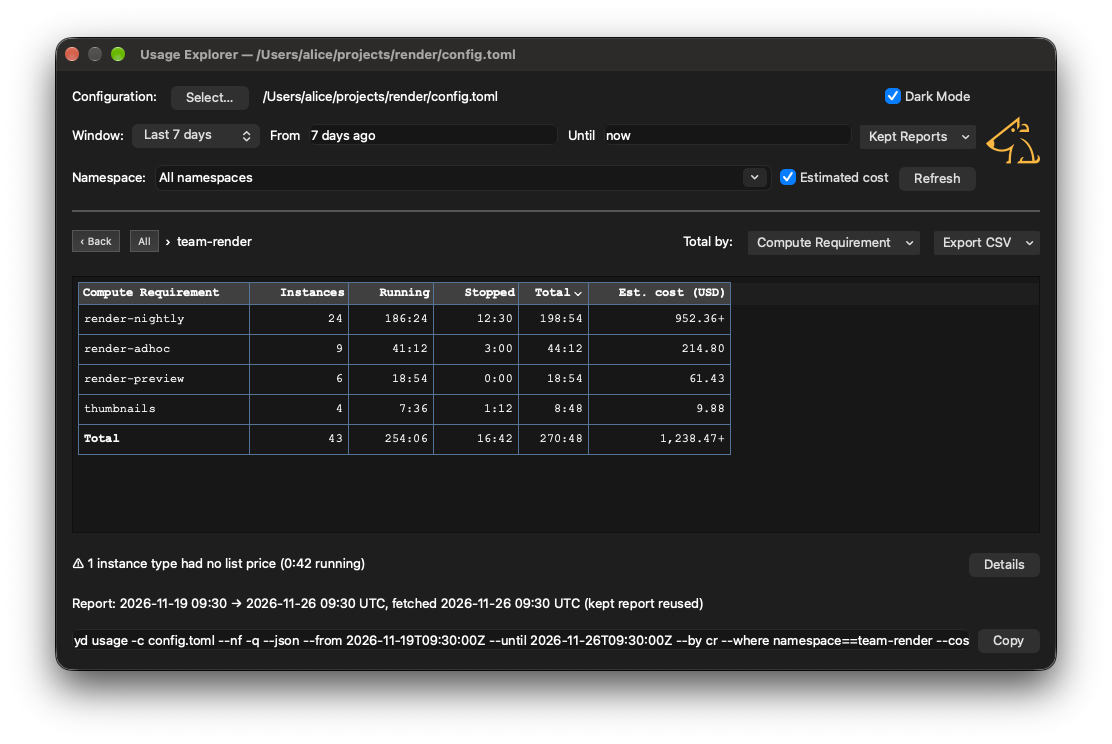
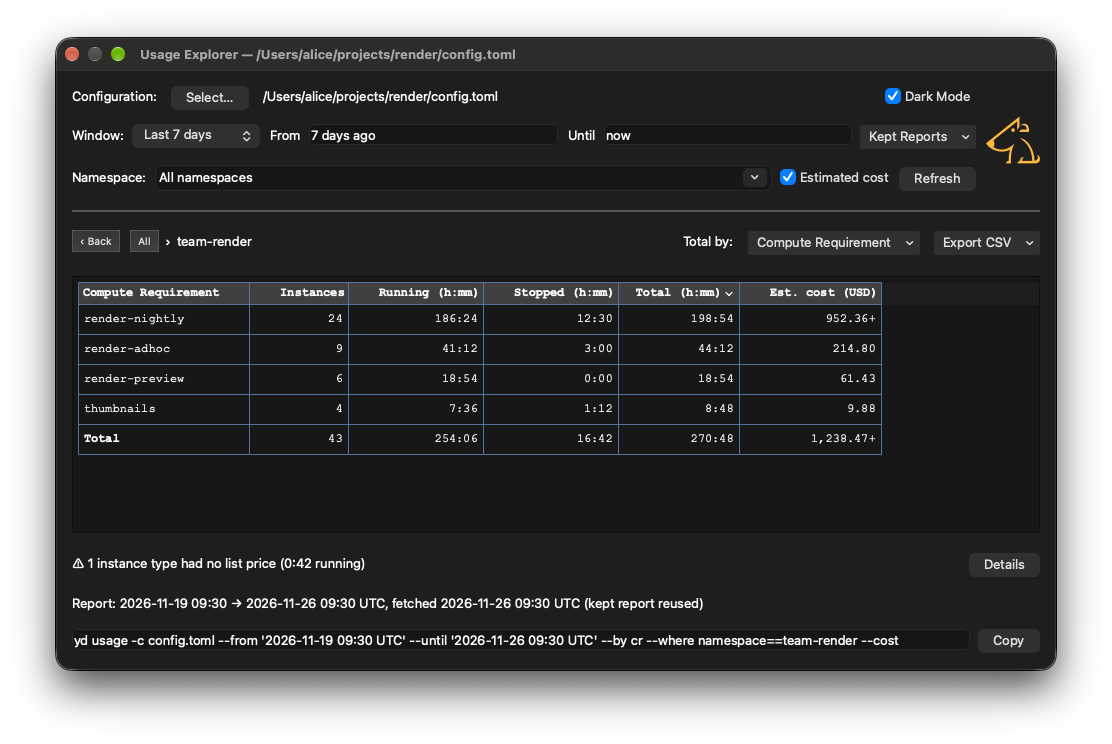
Usage Explorer: time columns headed (h:mm)
- Running, Stopped, Total and the status columns, as yd usage's own
  table heads them; the As Shown export follows, the raw export keeps
  (hours)
- Both explorer screenshots retaken

diff --git a/tests/test_commander_usage_explorer.py b/tests/test_commander_usage_explorer.py
@@ -49,7 +49,7 @@ from yellowdog_cli.commander.usage_explorer import (
     UsageRunner,
     grid_colour,
 )
-from yellowdog_cli.commander.usage_table import STATUS_COLUMNS
+from yellowdog_cli.commander.usage_table import DURATION_HEADING, STATUS_COLUMNS
 from yellowdog_cli.commander.usage_views import (
     KEY_VALUE_SEPARATOR,
     USAGE_GROUP_KEYS,
@@ -506,11 +506,20 @@ def cells(explorer, row: int) -> list[str]:
 
 
 def column_of(explorer, name: str) -> int:
+    """
+    The column headed name, a time column's by its name alone ('Running' for
+    'Running (h:mm)').
+    """
     model = explorer._model
-    return [
+    headings = [
         model.headerData(c, Qt.Orientation.Horizontal)
         for c in range(model.columnCount())
-    ].index(name)
+    ]
+    return next(
+        c
+        for c, h in enumerate(headings)
+        if h in (name, DURATION_HEADING.format(heading=name))
+    )
 
 
 def click_heading(explorer, name: str) -> None:
@@ -1468,9 +1477,9 @@ def test_export_saves_the_table_as_shown(explorer, tmp_path, monkeypatch):
     assert rows[0] == [
         "Namespace",
         "Instances",
-        "Running",
-        "Stopped",
-        "Total",
+        "Running (h:mm)",
+        "Stopped (h:mm)",
+        "Total (h:mm)",
         "Est. cost (USD)",
     ]
     assert rows[1:] == [
@@ -1487,7 +1496,7 @@ def test_export_includes_a_status_column_shown(explorer, tmp_path, monkeypatch):
     target = tmp_path / "out.csv"
     export_to(explorer, target, monkeypatch)
     with open(target, encoding="utf-8", newline="") as file:
-        assert next(csv.reader(file))[-1] == "Pending"
+        assert next(csv.reader(file))[-1] == "Pending (h:mm)"
 
 
 def test_a_dismissed_export_writes_nothing(explorer, tmp_path, monkeypatch):
@@ -1555,8 +1564,8 @@ def test_a_figure_column_can_be_hidden_and_stays_so(
     assert shown_headings(explorer) == [
         "Namespace",
         "Instances",
-        "Running",
-        "Total",
+        "Running (h:mm)",
+        "Total (h:mm)",
         "Est. cost (USD)",
     ]
     assert commander_dialog_settings.value(SETTING_EXPLORER_HIDDEN_COLUMNS) == (
@@ -1565,10 +1574,10 @@ def test_a_figure_column_can_be_hidden_and_stays_so(
     # Hidden at the next level, and with the cost column taken away
     double_click_row(explorer, 0)
     settle(explorer)
-    assert "Stopped" not in shown_headings(explorer)
+    assert "Stopped (h:mm)" not in shown_headings(explorer)
     explorer._cost.click()
     settle(explorer)
-    assert shown_headings(explorer)[-1] == "Total"
+    assert shown_headings(explorer)[-1] == "Total (h:mm)"
     target = tmp_path / "out.csv"
     export_to(explorer, target, monkeypatch, raw=True)
     assert "Stopped (hours)" not in read_csv(target)[0]

diff --git a/yellowdog_cli/commander/usage_table.py b/yellowdog_cli/commander/usage_table.py
@@ -37,6 +37,9 @@ HIDEABLE_COLUMNS: tuple[str, ...] = (
     *STATUS_COLUMNS,
 )
 TOTAL_LABEL = "Total"
+# A time column's heading in the table and the shown export, saying how its
+# cells read, as yd usage's own table heads them
+DURATION_HEADING = "{heading} (h:mm)"
 # The raw export's headings beyond the key columns: the figures as yd usage
 # --json gives them, hours as decimals and the cost as a number, and the
 # running time no price covered, which the shown cost's '+' marks
@@ -93,9 +96,12 @@ class UsageTableModel(QAbstractTableModel):
         self._has_total = len(rows) > len(groups)
         self._headings = (
             [heading(key) for key in by]
-            + [name for name, _ in VALUE_COLUMNS]
+            + [
+                name if key == "instances" else DURATION_HEADING.format(heading=name)
+                for name, key in VALUE_COLUMNS
+            ]
             + ([COST_HEADING.format(currency=document["currency"])] if cost else [])
-            + [heading(key) for key in STATUS_COLUMNS]
+            + [DURATION_HEADING.format(heading=heading(key)) for key in STATUS_COLUMNS]
         )
         self.endResetModel()
 
@@ -118,11 +124,12 @@ class UsageTableModel(QAbstractTableModel):
         headings: list[str] = []
         for column in columns:
             figure = self._figure(column)
-            name = self._headings[column]
             if figure in (None, "instances", COST_SORT_KEY):
-                headings.append(name)
+                headings.append(self._headings[column])
             else:
-                headings.append(RAW_HOURS_HEADING.format(heading=name))
+                headings.append(
+                    RAW_HOURS_HEADING.format(heading=figure_heading(figure))
+                )
             if figure == COST_SORT_KEY:
                 headings.append(UNPRICED_HEADING)
         rows = [headings]

diff --git a/yellowdog_cli/commander/README.md b/yellowdog_cli/commander/README.md
@@ -606,7 +606,7 @@ Everything else is as in Commander: the explorer's own preferences are shared wi
 **Exporting.** **Export CSV** writes the table's visible columns, with any hidden column left out, and every row in the order shown, ending with the **Total** row unless **Include Total Row**, ticked at first, is unticked in its menu. The file is UTF-8, suggested as `usage-<date>-<time>.csv` in the configuration file's directory. Its menu offers two forms:
 
 - **Raw Numbers…** for a spreadsheet: Instances as a count, each time in decimal hours (its heading says `(hours)`), and the cost as a plain number, empty where nothing was priced. An `Unpriced running (hours)` column follows the cost, giving the running time no list price covered, which the table marks with `+`.
-- **As Shown…**: the headings and cells exactly as displayed (`47:12`, `248.10+`).
+- **As Shown…**: the headings and cells exactly as displayed (`Running (h:mm)`, `47:12`, `248.10+`).
 
 **Copying.** Cmd/Ctrl+C copies the selected cells as tab-separated text, with their headings. Esc does nothing in this window; close it with its own close button.
 

diff --git a/CHANGELOG.md b/CHANGELOG.md
@@ -9,6 +9,7 @@ The user-visible changes in each release of the YellowDog CLI, the newest first.
 - **The Usage Explorer can be maximised and minimised on Windows**, whose title bar showed a close button alone.
 - **The Usage Explorer's Total by menu stays open while keys are ticked and unticked**, and regroups the table once, when it closes.
 - **`yd commander --usage-explorer` has a Dark Mode checkbox**, at the end of the Configuration row, sharing Commander's Dark Mode setting.
+- **The Usage Explorer's time columns are headed `(h:mm)`**, as `yd usage`'s own table heads them (`Running (h:mm)`), in the table and the As Shown export.
 - **The Usage Explorer's command line leaves out `--nf`, `-q` and `--json`**, which only the explorer needs, so a copied command prints its table in a terminal.
 - **The Usage Explorer writes fixed times as `2026-11-19 10:57 UTC`**, as its report line shows them: in From and Until for a kept report or a month window, and in the generated command line, in place of full ISO timestamps.
 
